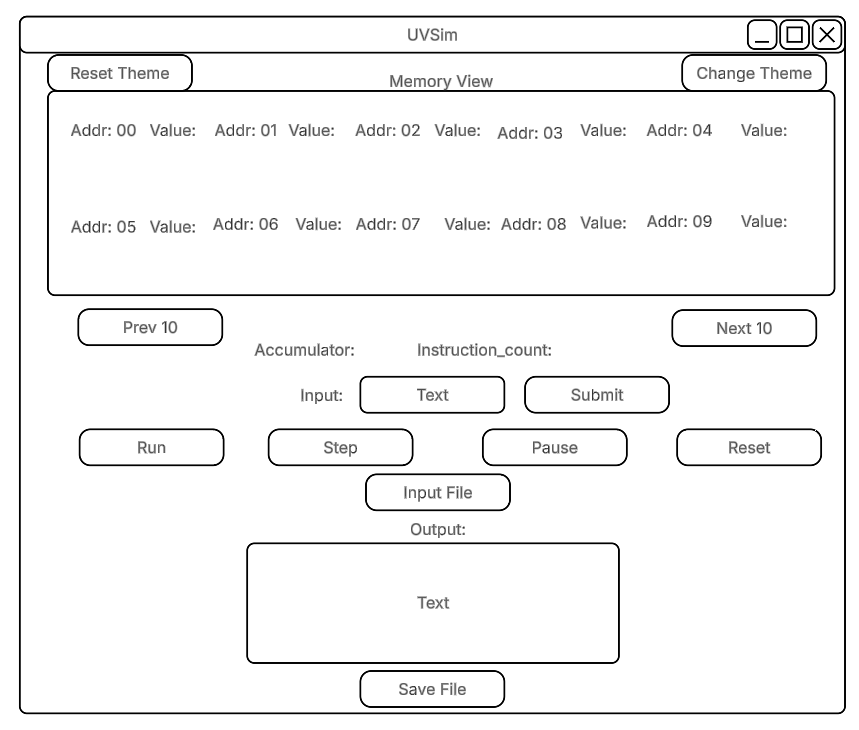
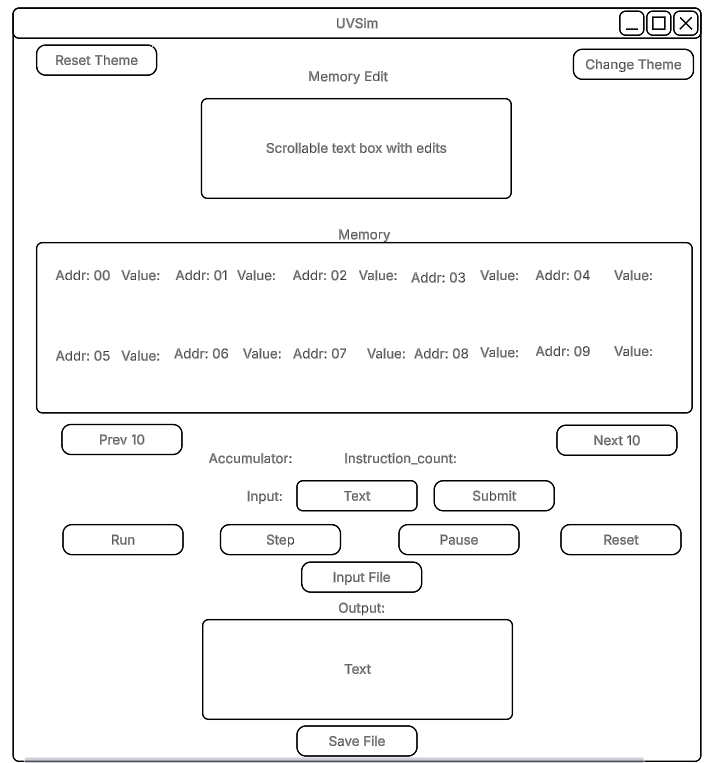
Updated text editor and documentation changes

diff --git a/UVSim-Project/src/controller/UVSim_Controller.py b/UVSim-Project/src/controller/UVSim_Controller.py
@@ -1,12 +1,8 @@
-import time
+
 import tkinter as tk
 from tkinter import filedialog, messagebox, colorchooser
-import threading
 import json
-import os
 from globals.Util import Globals
-
-CONFIG_FILE = CONFIG_FILE = os.path.join(os.path.dirname(__file__), '..', 'config.json')
 
 class UVSIM_Controller:
     def __init__(self, sim, view):
@@ -95,18 +91,71 @@ class UVSIM_Controller:
 
     def load_program(self):
         ##This opens up the file explorer for the user to select a file
-        try:
-            file_path = filedialog.askopenfilename(filetypes=[("Text file", "*.txt")])
-            if file_path:
-                if self.sim.read_file(file_path):
-                    self.view.print_output("File read successfully")
+        file_path = filedialog.askopenfilename(filetypes=[("Text file", "*.txt")])
+        if file_path:
+            try:
+                with open(file_path, 'r') as f:
+                    lines = f.readlines()
+                if self.sim.memory.load_program(lines):
+                    self.view.print_output("Successfully loaded file")
                     self.view.update_display()
-
+                    editor_content = "".join(lines)
+                    if hasattr(self.view, "program_editor"):
+                        self.view.program_editor.config(state='normal')
+                        self.view.program_editor.delete("1.0", "end")
+                        self.view.program_editor.insert("1.0", editor_content)
+                        self.view.program_editor.config(state='normal')
+                    self.view.update_display()
+                        
                 else:
-                    raise FileNotFoundError
+                    self.view.print_output("File couldn't be read")
+            except Exception as e:
+                self.view.print_output(f"Error loading file: {e}")
 
-        except FileNotFoundError:
-            self.view.print_output("File not found")
+
+    def load_from_editor(self):
+        raw = self.view.program_editor.get("1.0", tk.END).strip().splitlines()
+        if len(raw) > Globals.MEMORYSIZE:
+            self.view.print_output("Error: Editor has more than 100 instructions.")
+            return False
+
+        for i, line in enumerate(raw):
+            line = line.strip()
+            if not line or line == Globals.STOP:
+                break
+            if not line[0] in '+-' or not line[1:].isdigit() or len(line[1:]) != 4:
+                self.view.print_output(f"Error on line {i}: Invalid instruction '{line}'")
+                return False
+            self.memory.memory[i] = int(line)
+            self.memory.spareMemory[i] = int(line)
+        self.view.print_output("Editor contents loaded into memory.")
+        self.view.update_display()
+        return True
+    
+    def cut_text(self, event=None):
+        self.copy_text()
+        self.program_editor.delete("sel.first", "sel.last")
+        return "break"
+
+    def copy_text(self, event=None):
+        try:
+            self.root.clipboard_clear()
+            self.root.clipboard_append(self.program_editor.get("sel.first", "sel.last"))
+        except tk.TclError:
+            pass
+        return "break"
+
+    def paste_text(self, event=None):
+        try:
+            pasted = self.root.clipboard_get()
+            current_text = self.program_editor.get("1.0", tk.END).strip().splitlines()
+            if len(current_text) + pasted.count("\n") > 100:
+                self.print_output("Paste would exceed 100 lines. Cancelled.")
+                return "break"
+            self.program_editor.insert(tk.INSERT, pasted)
+        except tk.TclError:
+            pass
+        return "break"
 
     #Gets the 10 previous Memory locations
     def prev_memory(self):
@@ -155,7 +204,7 @@ class UVSIM_Controller:
         LOADS the theme from the config file to apply it.
         """
         try:
-            with open(CONFIG_FILE, 'r') as file:
+            with open(Globals.CONFIG_FILE, 'r') as file:
                 return json.load(file)
         except Exception:
             return None
@@ -184,7 +233,7 @@ class UVSIM_Controller:
             "off_color": off_color
         }
         try:
-            with open(CONFIG_FILE, 'w') as f:
+            with open(Globals.CONFIG_FILE, 'w') as f:
                 json.dump(config, f, indent=4)
             self.theme = config
             self.view.set_theme(primary_color, off_color)

diff --git a/UVSim-Project/src/view/UVSim_Gui.py b/UVSim-Project/src/view/UVSim_Gui.py
@@ -27,6 +27,13 @@ class UVSIMGUI:
         header_frame.pack(fill=tk.X, pady=(10, 0), padx=10)
         tk.Button(header_frame, text= "Reset Theme", command= lambda: self.controller.reset_theme()).pack(side = tk.LEFT)
         tk.Button(header_frame, text="Change Theme", command=lambda: self.controller.change_theme()).pack(side=tk.RIGHT)
+
+        self.program_editor = tk.Text(self.root, height=10, width=50, wrap=tk.NONE)
+        tk.Label(root, text= "Memory Edit").pack(pady=(10,0))
+        self.program_editor.pack()
+        tk.Button(self.root, text="Load to Memory", command= lambda: self.controller.load_from_editor()).pack(pady=10)
+
+
         tk.Label(root, text="Memory").pack(pady=(10, 0))
         memory_frame = tk.LabelFrame(root, padx=10, pady=10, borderwidth=2, relief="groove")
         memory_frame.pack(padx=10, pady=10)
@@ -95,6 +102,9 @@ class UVSIMGUI:
 
     def bind_controller(self, controller):
         self.controller = controller
+        self.program_editor.bind("<Control-c>", self.controller.copy_text)
+        self.program_editor.bind("<Control-x>", self.controller.cut_text)
+        self.program_editor.bind("<Control-v>", self.controller.paste_text)
 
     def update_display(self):
         self.update_memory_display()

diff --git a/UVSim-Project/src/globals/Util.py b/UVSim-Project/src/globals/Util.py
@@ -1,10 +1,13 @@
+import os
 class Globals:
     MAX_VALUE = 9999
     MIN_VALUE = -9999
-    STOP = -99999
+    STOP = '-99999'
     MEMORYSIZE = 100
 
     DEFAULT_PRIMARY = "#4C721D"
     DEFAULT_OFF = "#FFFFFF"
+
+    CONFIG_FILE = CONFIG_FILE = os.path.join(os.path.dirname(__file__), '..', 'config.json')
 
     INTERVAL = 500

diff --git a/UVSim-Project/tests/test_UVSim.py b/UVSim-Project/tests/test_UVSim.py
@@ -1,5 +1,5 @@
 import unittest
-from model.UVSim import UVSim
+from model.UVSim import UVSIM
 from unittest.mock import patch
 from io import StringIO
 

diff --git a/UVSim-Project/Documentation/unit-tests-gui-spreadsheet.md b/UVSim-Project/Documentation/unit-tests-gui-spreadsheet.md
@@ -1,0 +1,9 @@
+# UVSIM GUI & Controller Test Plan
+
+| Test Name                          | Description                                               | Use Case           | Inputs                                      | Expected Output                                | Success Criteria                                                   | Result   |
+|-----------------------------------|-----------------------------------------------------------|--------------------|---------------------------------------------|-------------------------------------------------|--------------------------------------------------------------------|----------|
+| test_set_theme_applies_color      | Applies theme color to GUI root background               | GUI Theming        | primary = "#4C721D", off = "#FFFFFF"        | root.bg = "#4C721D"                             | GUI root background color equals primary input                     | Success  |
+| test_print_output                 | Displays message in output text box                      | Output Messaging   | message = "Error UVSIM stopped working..."  | output_box contains the message                | output_box includes message string                                | Success  |
+| test_update_status_reflects_cpu_state | Updates labels to reflect CPU state                 | CPU Status Display | accumulator = 1234, instruction_count = 5   | accumlator_label shows "+1234", instruction_label shows "04" | GUI status labels reflect correct values                          | Success  |
+| test_submit_input_sets_io_input  | Transfers GUI input to model IO                          | User Input         | input_entry = "+1234"                       | sim.io.input = "+1234"                         | Model's IO input receives GUI entry value                          | Success  |
+| test_memory_scroll                | Memory frame scrolls forward and backward                | Memory Paging      | mem_start = 0 → next → prev                 | mem_start = 10 → 0                             | Memory frame moves forward and back correctly                      | Success  |

diff --git a/UVSim-Project/Documentation/class_design.md b/UVSim-Project/Documentation/class_design.md
@@ -414,6 +414,31 @@ The UVSIM_Controller class acts as the bridge between the simulation logic (mode
 -  Post Condition:
     - If successful, memory and display are updated. Else, an error message is shown.
 
+ # load_from_editor(self)
+- Purpose:
+	- Validates the entries in the memory text editor and sends it into memory
+- Post Condition:
+	- If successful updates the memory display with new info
+	- If failure gives an error message
+
+ # cut_text(self, event =none)
+ - Purpose:
+	- Allows the user to be able to cut  text in the editor
+- Post Condition:
+	- If selected it will copy the item to clipboard and delete on editor
+
+ # copy_text(self, event =none)
+ - Purpose:
+	- Allows the user to be able to copy text in the editor
+- Post Condition:
+	- If selected it will copy the item to clipboard
+
+ # paste_text(self, event =none)
+ - Purpose:
+	- Allows the user to be able to paste text in the editor
+- Post Condition:
+	- If selected it will paste the item in the editor
+
  #  prev_memory(self) 
 -  Purpose:
     - Navigates the memory display to show 10 previous addresses.
@@ -464,9 +489,9 @@ The UVSIM_Controller class acts as the bridge between the simulation logic (mode
 
  #  save_file(self) 
 -  Purpose:
-    - (Placeholder) Intended to allow saving the program or memory state.
+    - open a file explorer for the user to save file
 -  Post Condition:
-    - Not implemented yet.
+    - Saves a usable BasicML file into where the user wants
 
 
 
